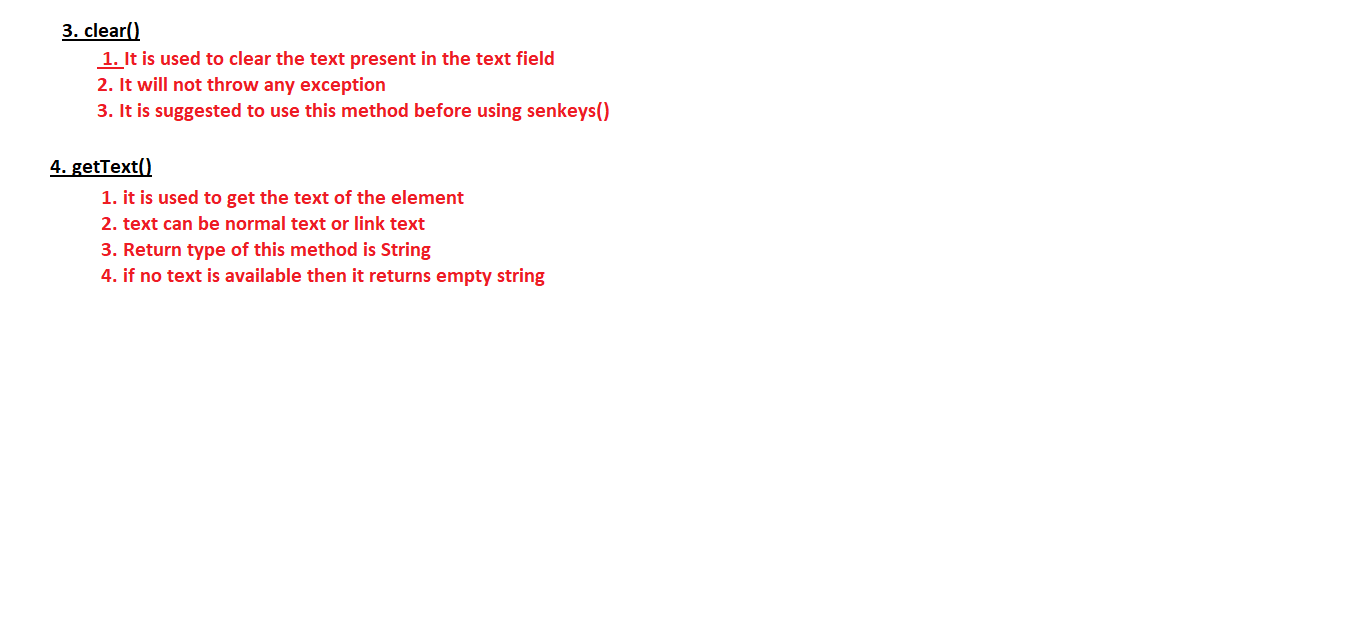
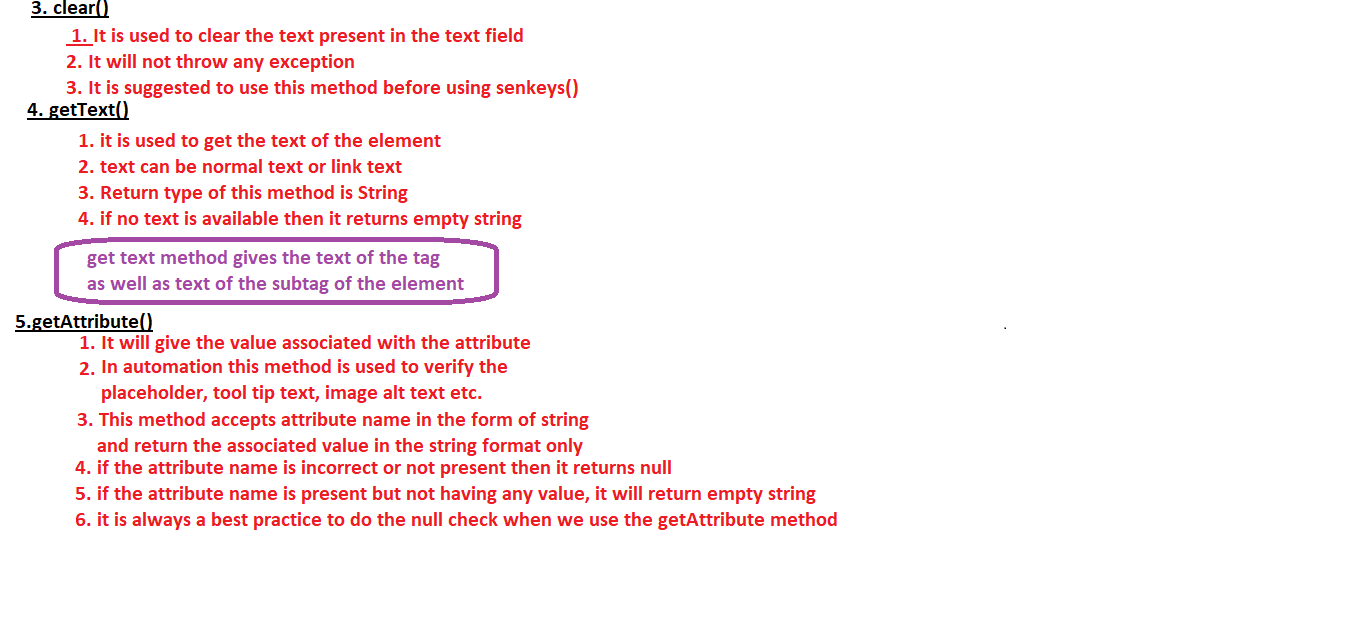
New Commit - getAttribute Method

Changed region(s): [[0.0, 0.0, 0.6176, 0.8539]]

diff --git a/SMAY7012025_Old/src/methodOfWebElement/UsageOfGetAttributeMethod1.java b/SMAY7012025_Old/src/methodOfWebElement/UsageOfGetAttributeMethod1.java
@@ -1,0 +1,40 @@
+package methodOfWebElement;
+
+import org.openqa.selenium.By;
+import org.openqa.selenium.WebDriver;
+import org.openqa.selenium.chrome.ChromeDriver;
+
+public class UsageOfGetAttributeMethod1 {
+
+	public static void main(String[] args) throws InterruptedException {
+		System.setProperty("webdriver.chrome.driver", "./drivers/chromedriver.exe");
+		WebDriver driver = new ChromeDriver(); 
+		driver.manage().window().maximize();
+		
+		driver.get("https://opensource-demo.orangehrmlive.com/web/index.php/auth/login");
+		
+		Thread.sleep(5000);
+		
+		String actualPlaceholder = driver.findElement(By.name("username")).getAttribute("placeholde");
+		
+		String exptextdPlaceholder = "Username";
+		
+		System.out.println("actualPlaceholder: "+actualPlaceholder);
+		System.out.println("exptextdPlaceholder: "+exptextdPlaceholder);
+		
+		if(actualPlaceholder!=null) {
+			if(actualPlaceholder.equals(exptextdPlaceholder)) {
+				System.out.println("PASS:: The placeholder is persent and having expected value");
+			}else {
+				System.out.println("FAIL:: The placeholder is persent and not having expected value");
+			}
+		}else {
+			System.out.println("FAIL:: The attribute name is worng or not present");
+		}
+		
+		
+		
+		driver.close();
+	}
+
+}

diff --git a/SMAY7012025_Old/src/test/P1.java b/SMAY7012025_Old/src/test/P1.java
@@ -3,6 +3,7 @@ package test;
 import org.openqa.selenium.By;
 import org.openqa.selenium.Keys;
 import org.openqa.selenium.WebDriver;
+import org.openqa.selenium.WebElement;
 import org.openqa.selenium.chrome.ChromeDriver;
 
 public class P1 {
@@ -11,14 +12,27 @@ public class P1 {
 		System.setProperty("webdriver.chrome.driver", "./drivers/chromedriver.exe");
 		WebDriver driver = new ChromeDriver();
 		driver.manage().window().maximize();
-		driver.get("https://opensource-demo.orangehrmlive.com/web/index.php/auth/login");
-		Thread.sleep(3000);
+		driver.get("https://www.naukri.com/registration/createAccount?othersrcp=22636");
+		Thread.sleep(2000);
+		WebElement maleRaidoButton = driver.findElement(By.xpath("//i[@class=\"ico resman-icon resman-icon-check-box\"]"));
 		
-		String username = null;
+		if(maleRaidoButton.isSelected()){
+			System.out.println("selected");
+		}else {
+			System.out.println("not seleted");
+		}
 		
-		driver.findElement(By.name("username")).sendKeys(username);
+		maleRaidoButton.click();
+		Thread.sleep(2000);
+		if(maleRaidoButton.isSelected()){
+			System.out.println("selected");
+		}else {
+			System.out.println("not seleted");
+		}
 		
 		
+	
+		driver.quit();
 		
 	}
 

diff --git a/SMAY7012025_Old/src/methodOfWebElement/UsageOfGetAttributeMethod4.java b/SMAY7012025_Old/src/methodOfWebElement/UsageOfGetAttributeMethod4.java
@@ -1,0 +1,36 @@
+package methodOfWebElement;
+
+import org.openqa.selenium.By;
+import org.openqa.selenium.WebDriver;
+import org.openqa.selenium.chrome.ChromeDriver;
+
+public class UsageOfGetAttributeMethod4 {
+
+	public static void main(String[] args) {
+		System.setProperty("webdriver.chrome.driver", "./drivers/chromedriver.exe");
+		WebDriver driver = new ChromeDriver(); 
+		driver.manage().window().maximize();
+		
+		driver.get("https://www.flipkart.com/");
+		
+		String actualImgAltText = driver.findElement(By.xpath("//picture[@title='Flipkart']/img")).getAttribute("title");
+		String exptectedImgAltText = "Flipkart";
+		
+		System.out.println("actualImgAltText "+actualImgAltText);
+		System.out.println("exptectedImgAltText "+exptectedImgAltText);
+		
+		if(actualImgAltText!=null) {
+			if(actualImgAltText.equals(exptectedImgAltText)) {
+				System.out.println("PASS:: Alternative text of the image is correct");
+			}else {
+				System.out.println("FAIL:: Alternative text of the image is not correct");
+			}
+		}else {
+			System.out.println("FAIL:: Attribute is wrong or not present");
+		}
+		
+		
+		driver.quit();
+	}
+
+}

diff --git a/SMAY7012025_Old/src/methodOfWebElement/UsageOfGetAttributeMethod3.java b/SMAY7012025_Old/src/methodOfWebElement/UsageOfGetAttributeMethod3.java
@@ -1,0 +1,35 @@
+package methodOfWebElement;
+
+import org.openqa.selenium.By;
+import org.openqa.selenium.WebDriver;
+import org.openqa.selenium.chrome.ChromeDriver;
+
+public class UsageOfGetAttributeMethod3 {
+
+	public static void main(String[] args) {
+		System.setProperty("webdriver.chrome.driver", "./drivers/chromedriver.exe");
+		WebDriver driver = new ChromeDriver(); 
+		driver.manage().window().maximize();
+		
+		driver.get("https://demoqa.com/slider");
+		
+		String pointer = driver.findElement(By.cssSelector("input[type='range']")).getAttribute("value");
+		
+		int actualPointerValue = Integer.parseInt(pointer);
+		
+		int expectedPointerValue = 25;
+		
+		System.out.println("actualPointerValue: "+actualPointerValue);
+		System.out.println("expectedPointerValue: "+expectedPointerValue);
+		
+		if(actualPointerValue==expectedPointerValue) {
+			System.out.println("PASS:: Pointer values is correct and it is verified");
+		}else {
+			System.out.println("FAIL:: Pointer values is not correct and it is verified");
+		}
+		
+		driver.quit();
+
+	}
+
+}

diff --git a/SMAY7012025_Old/src/methodOfWebElement/UsageOfGetAttributeMethod2.java b/SMAY7012025_Old/src/methodOfWebElement/UsageOfGetAttributeMethod2.java
@@ -1,0 +1,31 @@
+package methodOfWebElement;
+
+import org.openqa.selenium.By;
+import org.openqa.selenium.WebDriver;
+import org.openqa.selenium.chrome.ChromeDriver;
+
+public class UsageOfGetAttributeMethod2 {
+
+	public static void main(String[] args) {
+		System.setProperty("webdriver.chrome.driver", "./drivers/chromedriver.exe");
+		WebDriver driver = new ChromeDriver(); 
+		driver.manage().window().maximize();
+		
+		driver.get("https://demoqa.com/slider");
+		
+		String actualPointerValue = driver.findElement(By.cssSelector("input[type='range']")).getAttribute("value");
+		String expectedPointerValue = "25";
+		
+		System.out.println("actualPointerValue: "+actualPointerValue);
+		System.out.println("expectedPointerValue: "+expectedPointerValue);
+		
+		if(actualPointerValue.equals(expectedPointerValue)) {
+			System.out.println("PASS:: Pointer values is correct and it is verified");
+		}else {
+			System.out.println("FAIL:: Pointer values is not correct and it is verified");
+		}
+		
+		driver.quit();
+	}
+
+}

diff --git a/SMAY7012025_Old/src/methodOfWebElement/UsageOfGetTextMethod2.java b/SMAY7012025_Old/src/methodOfWebElement/UsageOfGetTextMethod2.java
@@ -1,0 +1,30 @@
+package methodOfWebElement;
+
+import org.openqa.selenium.By;
+import org.openqa.selenium.WebDriver;
+import org.openqa.selenium.chrome.ChromeDriver;
+
+public class UsageOfGetTextMethod2 {
+
+	public static void main(String[] args) {
+		System.setProperty("webdriver.chrome.driver", "./drivers/chromedriver.exe");
+		WebDriver driver = new ChromeDriver();
+		driver.manage().window().maximize();
+		
+		driver.get("https://www.selenium.dev/");
+		
+		String actualText = driver.findElement(By.tagName("h1")).getText();
+		
+		String expctedText = "That's it";
+		
+		if(actualText.contains(expctedText)) {
+			System.out.println("Expected text is present in the element");
+		}else {
+			System.out.println("Expected text is not present in the element");
+		}
+		
+		driver.quit();
+
+	}
+
+}

diff --git a/SMAY7012025_Old/src/methodOfWebElement/UsageOfGetTextMethod3.java b/SMAY7012025_Old/src/methodOfWebElement/UsageOfGetTextMethod3.java
@@ -1,0 +1,24 @@
+package methodOfWebElement;
+
+import org.openqa.selenium.By;
+import org.openqa.selenium.WebDriver;
+import org.openqa.selenium.chrome.ChromeDriver;
+
+public class UsageOfGetTextMethod3 {
+
+	public static void main(String[] args) {
+		System.setProperty("webdriver.chrome.driver", "./drivers/chromedriver.exe");
+		WebDriver driver = new ChromeDriver();
+		driver.manage().window().maximize();
+		
+		driver.get("https://testautomationpractice.blogspot.com/");
+		
+		String text = driver.findElement(By.xpath("//div[@id='header-inner']")).getText();
+		
+		System.out.println(text);
+		
+		driver.quit();
+
+	}
+
+}

diff --git a/SMAY7012025_Old/src/methodOfWebElement/UsageOfGetTextMethod1.java b/SMAY7012025_Old/src/methodOfWebElement/UsageOfGetTextMethod1.java
@@ -4,7 +4,7 @@ import org.openqa.selenium.By;
 import org.openqa.selenium.WebDriver;
 import org.openqa.selenium.chrome.ChromeDriver;
 
-public class UsageOfGetTextMethod {
+public class UsageOfGetTextMethod1 {
 
 	public static void main(String[] args) {
 		System.setProperty("webdriver.chrome.driver", "./drivers/chromedriver.exe");
